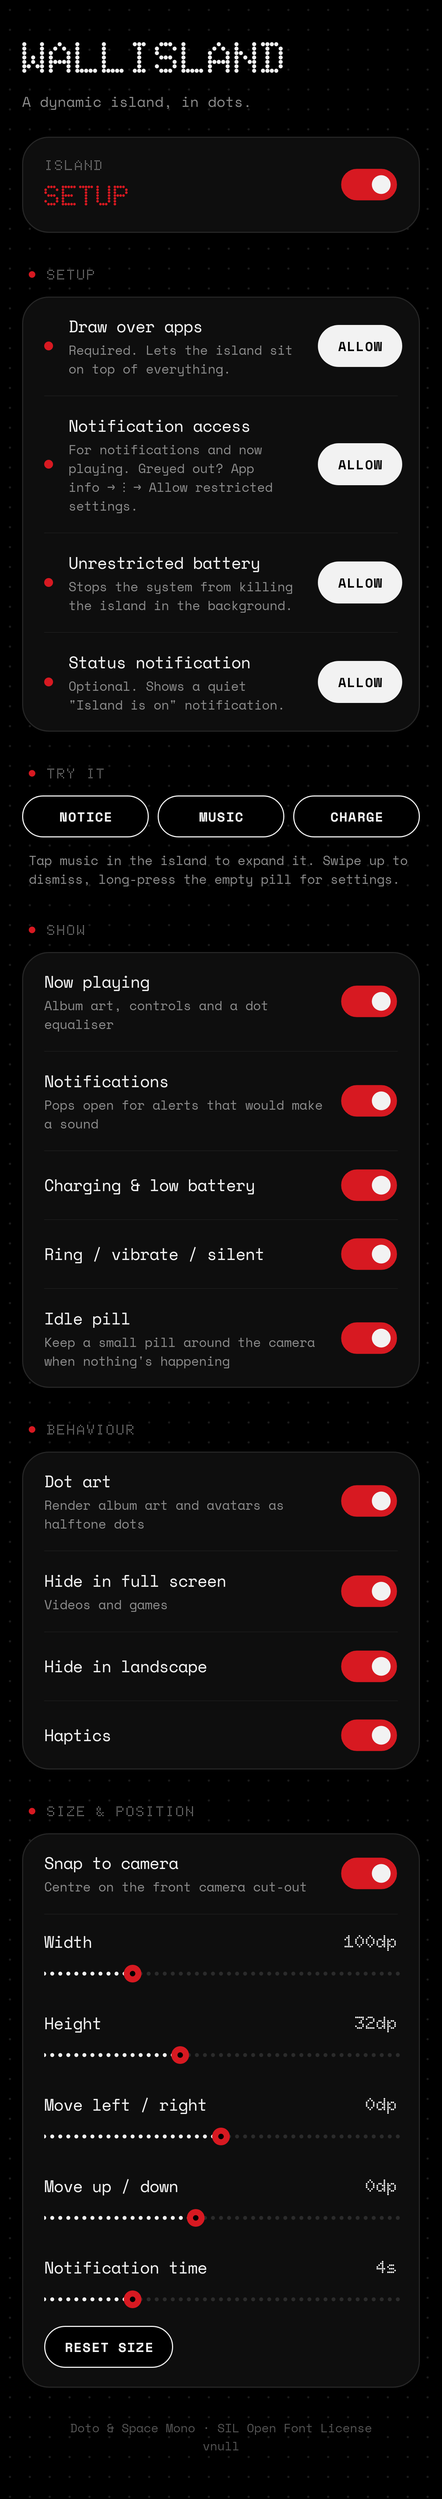
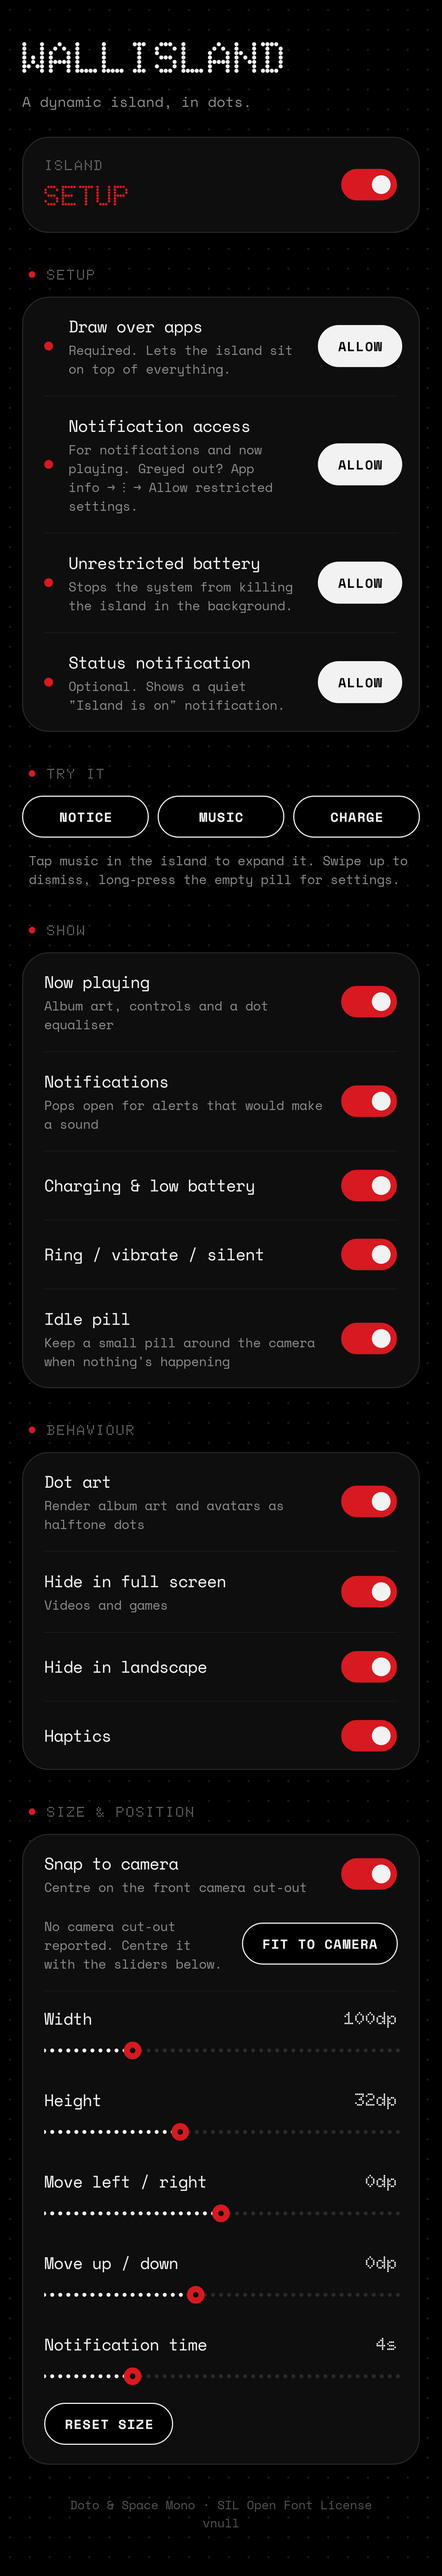
Full music controls, art toggle, and fix the off-centre island
Expanded now playing:
- Drag the dotted progress bar to scrub (live time readout, bigger red
  playhead, detent haptics); tap still jumps.
- Back 10 s and forward 10 s buttons join previous / play-pause / next.
- Tap the (now larger) artwork to flip between the real cover and the
  dot-matrix version; tap the title to open the player.
- The demo player responds to every control.

Centring:
- Cap the overlay window at the display width. Expanded states could ask
  for a window wider than the screen, which the window manager shifts
  sideways, knocking the pill off-centre.
- Read window metrics and the cut-out through a window context instead of
  the bare service context, and keep the pill's y position on-screen.
- Settings measures the camera from its own window insets, shows where it
  is, saves it as a fallback for the service, and adds "Fit to camera".

Claude-Session: https://claude.ai/code/session_013Ux6V4Mu22KpPNhHEWNT6s

diff --git a/app/src/main/java/com/wallisland/island/IslandView.kt b/app/src/main/java/com/wallisland/island/IslandView.kt
@@ -136,6 +136,15 @@ class IslandView(context: Context, private val prefs: Prefs, private val host: H
     private val hitNext = RectF()
     private val hitBar = RectF()
     private val hitOpen = RectF()
+    private val hitArt = RectF()
+    private val hitRewind = RectF()
+    private val hitForward = RectF()
+    private var barLeft = 0f
+    private var barRight = 0f
+    private var scrubbing = false
+    private var scrubFrac = 0f
+    private var seekHoldPos = 0L
+    private var seekHoldUntil = 0L
 
     private fun textPaint(face: android.graphics.Typeface, sizeSp: Float, color: Int) =
         TextPaint(Paint.ANTI_ALIAS_FLAG).apply {
@@ -167,6 +176,7 @@ class IslandView(context: Context, private val prefs: Prefs, private val host: H
     fun setMedia(info: MediaInfo?) {
         val old = media
         media = info
+        if (info != null && old != null && info.positionAt != old.positionAt) seekHoldUntil = 0L
         if (info == null) {
             mediaArt = null; mediaArtSmall = null; mediaPicture = null
             mediaExpanded = false
@@ -274,7 +284,7 @@ class IslandView(context: Context, private val prefs: Prefs, private val host: H
             Mode.IDLE -> idleW to idleH
             Mode.MEDIA, Mode.CHARGING, Mode.RINGER -> idleW + 2 * context.dp(SIDE_DP) to idleH
             Mode.NOTICE -> bigW to idleH + context.dp(66f)
-            Mode.MEDIA_EXPANDED -> bigW to idleH + context.dp(152f)
+            Mode.MEDIA_EXPANDED -> bigW to idleH + context.dp(172f)
         }
         val previewing = SystemClock.uptimeMillis() < previewUntil
         val visible = !hidden && prefs.enabled && (screenOn || previewing) &&
@@ -543,34 +553,40 @@ class IslandView(context: Context, private val prefs: Prefs, private val host: H
         drawHeader(canvas, m.appName, null, alpha, redDot = m.playing)
         drawVisualizer(canvas, pillRect.right - context.dp(22f), pillRect.top + topZone / 2f, context.dp(3.4f), 5, 4, m.playing, alpha)
 
+        // Artwork: tap to flip between the real cover and the dot-matrix version.
         val pad = context.dp(18f)
-        val s = context.dp(64f)
-        val top = pillRect.top + topZone + context.dp(6f)
+        val s = context.dp(ART_DP)
+        val top = pillRect.top + topZone + context.dp(4f)
         box.set(pillRect.left + pad, top, pillRect.left + pad + s, top + s)
         drawArt(canvas, box, small = false, alpha = alpha)
-        hitOpen.set(box.left, box.top, pillRect.right - pad, box.bottom)
+        hitArt.set(box)
 
         val tx = box.right + context.dp(14f)
         val avail = pillRect.right - pad - tx
         titlePaint.alpha = alpha
         bodyPaint.alpha = alpha
-        drawText(canvas, m.title, tx, top + context.dp(26f), avail, titlePaint)
-        drawText(canvas, m.artist, tx, top + context.dp(46f), avail, bodyPaint)
+        drawText(canvas, m.title, tx, top + s / 2f - context.dp(3f), avail, titlePaint)
+        drawText(canvas, m.artist, tx, top + s / 2f + context.dp(17f), avail, bodyPaint)
+        hitOpen.set(tx, box.top, pillRect.right - pad, box.bottom)
 
-        // Progress: a row of dots, played in white, the playhead in red.
+        // Progress: a row of dots, played in white, the playhead in red. Drag it to scrub.
         val barY = box.bottom + context.dp(22f)
         labelPaint.alpha = alpha
         val dur = m.durationMs
-        val pos = m.currentPosition()
+        val pos = shownPosition(m)
         val barL: Float
         val barR: Float
         if (dur > 0) {
             val lt = fmt(pos)
             val rt = "-" + fmt(dur - pos)
             val tw = labelPaint.measureText("-00:00")
+            labelPaint.color = if (scrubbing) Look.WHITE else Look.GREY
+            labelPaint.alpha = alpha
             drawText(canvas, lt, pillRect.left + pad, barY, tw, labelPaint, centerY = true)
             val rw = labelPaint.measureText(rt)
             drawText(canvas, rt, pillRect.right - pad - rw, barY, rw + 1f, labelPaint, centerY = true)
+            labelPaint.color = Look.GREY
+            labelPaint.alpha = alpha
             barL = pillRect.left + pad + tw + context.dp(8f)
             barR = pillRect.right - pad - tw - context.dp(8f)
         } else {
@@ -591,26 +607,51 @@ class IslandView(context: Context, private val prefs: Prefs, private val host: H
                 else -> Look.DOT_OFF
             }
             dotPaint.alpha = alpha
-            canvas.drawCircle(x, barY, context.dp(if (isHead) 3.2f else 1.5f), dotPaint)
+            val r = when {
+                isHead && scrubbing -> 4.6f
+                isHead -> 3.2f
+                else -> 1.5f
+            }
+            canvas.drawCircle(x, barY, context.dp(r), dotPaint)
         }
-        hitBar.set(barL, barY - context.dp(14f), barR, barY + context.dp(14f))
+        // Generous touch target so the bar is easy to grab.
+        hitBar.set(barL - context.dp(8f), barY - context.dp(16f), barR + context.dp(8f), barY + context.dp(16f))
+        barLeft = barL
+        barRight = barR
 
-        // Transport: dot-matrix glyphs.
+        // Transport, all dot-matrix: -10s, previous, play/pause, next, +10s.
         val cy = barY + context.dp(34f)
         val cx = pillRect.centerX()
-        val gap = context.dp(76f)
+        val gap = min(pillRect.width() / 5.4f, context.dp(70f))
         glyphPaint.color = Look.WHITE
         glyphPaint.alpha = alpha
-        val gs = context.dp(17f)
+        val gs = context.dp(16f)
+        val ss = context.dp(13f)
         val ps = context.dp(22f)
-        Glyph.PREV.draw(canvas, cx - gap - Glyph.PREV.width(gs) / 2f, cy, gs, glyphPaint)
-        val play = if (m.playing) Glyph.PAUSE else Glyph.PLAY
-        play.draw(canvas, cx - play.width(ps) / 2f, cy, ps, glyphPaint)
-        Glyph.NEXT.draw(canvas, cx + gap - Glyph.NEXT.width(gs) / 2f, cy, gs, glyphPaint)
-        val hs = context.dp(26f)
+        fun glyph(g: Glyph, x: Float, size: Float) = g.draw(canvas, x - g.width(size) / 2f, cy, size, glyphPaint)
+        glyph(Glyph.REWIND, cx - 2 * gap, ss)
+        glyph(Glyph.PREV, cx - gap, gs)
+        glyph(if (m.playing) Glyph.PAUSE else Glyph.PLAY, cx, ps)
+        glyph(Glyph.NEXT, cx + gap, gs)
+        glyph(Glyph.FORWARD, cx + 2 * gap, ss)
+        labelPaint.alpha = alpha
+        val tenW = labelPaint.measureText("10")
+        drawText(canvas, "10", cx - 2 * gap - tenW / 2f, cy + context.dp(17f), tenW + 1f, labelPaint, centerY = true)
+        drawText(canvas, "10", cx + 2 * gap - tenW / 2f, cy + context.dp(17f), tenW + 1f, labelPaint, centerY = true)
+
+        val hs = min(gap / 2f, context.dp(26f))
+        hitRewind.set(cx - 2 * gap - hs, cy - hs, cx - 2 * gap + hs, cy + hs)
         hitPrev.set(cx - gap - hs, cy - hs, cx - gap + hs, cy + hs)
         hitPlay.set(cx - hs, cy - hs, cx + hs, cy + hs)
         hitNext.set(cx + gap - hs, cy - hs, cx + gap + hs, cy + hs)
+        hitForward.set(cx + 2 * gap - hs, cy - hs, cx + 2 * gap + hs, cy + hs)
+    }
+
+    /** What the playhead should show: the finger while scrubbing, the requested spot right after a seek. */
+    private fun shownPosition(m: MediaInfo): Long {
+        if (scrubbing && m.durationMs > 0) return (scrubFrac * m.durationMs).toLong()
+        if (SystemClock.uptimeMillis() < seekHoldUntil) return seekHoldPos
+        return m.currentPosition()
     }
 
     private fun drawCharging(canvas: Canvas, c: Transient.ChargeT, alpha: Int) {
@@ -724,6 +765,7 @@ class IslandView(context: Context, private val prefs: Prefs, private val host: H
         }
         if (springAlpha.target == 0f) return false
         if (event.actionMasked == MotionEvent.ACTION_DOWN && !pillRect.contains(event.x, event.y)) return false
+        if (scrubTouch(event)) return true
         when (event.actionMasked) {
             MotionEvent.ACTION_DOWN -> setPressed(true)
             MotionEvent.ACTION_UP, MotionEvent.ACTION_CANCEL -> setPressed(false)
@@ -757,17 +799,90 @@ class IslandView(context: Context, private val prefs: Prefs, private val host: H
         }
     }
 
+    /** Drag along the progress dots to scrub; the seek is sent when the finger lifts. */
+    private fun scrubTouch(e: MotionEvent): Boolean {
+        val m = media
+        when (e.actionMasked) {
+            MotionEvent.ACTION_DOWN -> {
+                if (shownMode != Mode.MEDIA_EXPANDED || m == null || m.durationMs <= 0) return false
+                if (!hitBar.contains(e.x, e.y)) return false
+                scrubbing = true
+                parent?.requestDisallowInterceptTouchEvent(true)
+                updateScrub(e.x)
+                buzz()
+                return true
+            }
+            MotionEvent.ACTION_MOVE -> {
+                if (!scrubbing) return false
+                updateScrub(e.x)
+                return true
+            }
+            MotionEvent.ACTION_UP, MotionEvent.ACTION_CANCEL -> {
+                if (!scrubbing) return false
+                scrubbing = false
+                if (e.actionMasked == MotionEvent.ACTION_UP && m != null) seekTo((scrubFrac * m.durationMs).toLong())
+                invalidate()
+                return true
+            }
+        }
+        return scrubbing
+    }
+
+    private fun updateScrub(x: Float) {
+        val w = (barRight - barLeft).coerceAtLeast(1f)
+        val f = ((x - barLeft) / w).coerceIn(0f, 1f)
+        // A light tick every ~5% so scrubbing feels like a dial.
+        if ((f * 20).toInt() != (scrubFrac * 20).toInt()) buzz()
+        scrubFrac = f
+        invalidate()
+    }
+
+    private fun seekTo(ms: Long) {
+        val m = media ?: return
+        val target = if (m.durationMs > 0) ms.coerceIn(0, m.durationMs) else ms.coerceAtLeast(0)
+        seekHoldPos = target
+        seekHoldUntil = SystemClock.uptimeMillis() + 1500
+        val c = m.controller
+        if (c != null) {
+            c.transportControls.seekTo(target)
+        } else {
+            // Demo player (no real session): move the playhead ourselves.
+            media = m.copy(positionMs = target, positionAt = SystemClock.elapsedRealtime())
+            seekHoldUntil = 0L
+        }
+        invalidate()
+    }
+
     private fun tapExpandedMedia(x: Float, y: Float) {
         val m = media ?: return
-        val tc = m.controller?.transportControls ?: return
+        val tc = m.controller?.transportControls
         when {
-            hitPlay.contains(x, y) -> { if (m.playing) tc.pause() else tc.play(); buzz() }
-            hitPrev.contains(x, y) -> { tc.skipToPrevious(); buzz() }
-            hitNext.contains(x, y) -> { tc.skipToNext(); buzz() }
-            hitBar.contains(x, y) && m.durationMs > 0 -> {
-                val f = ((x - hitBar.left) / hitBar.width()).coerceIn(0f, 1f)
-                tc.seekTo((f * m.durationMs).toLong())
+            hitPlay.contains(x, y) -> {
+                if (tc != null) {
+                    if (m.playing) tc.pause() else tc.play()
+                } else {
+                    media = m.copy(playing = !m.playing, positionMs = m.currentPosition(), positionAt = SystemClock.elapsedRealtime())
+                    resolve()
+                }
                 buzz()
+            }
+            hitRewind.contains(x, y) -> { seekTo(shownPosition(m) - SKIP_MS); buzz() }
+            hitForward.contains(x, y) -> { seekTo(shownPosition(m) + SKIP_MS); buzz() }
+            hitPrev.contains(x, y) -> {
+                // Like most players: restart the song unless it only just started.
+                if (tc != null) tc.skipToPrevious() else seekTo(0)
+                buzz()
+            }
+            hitNext.contains(x, y) -> { if (tc != null) tc.skipToNext() else seekTo(0); buzz() }
+            hitBar.contains(x, y) && m.durationMs > 0 -> {
+                val f = ((x - barLeft) / (barRight - barLeft).coerceAtLeast(1f)).coerceIn(0f, 1f)
+                seekTo((f * m.durationMs).toLong())
+                buzz()
+            }
+            hitArt.contains(x, y) -> {
+                prefs.dotArt = !prefs.dotArt
+                buzz()
+                invalidate()
             }
             hitOpen.contains(x, y) -> {
                 m.controller?.sessionActivity?.let { send(it) }
@@ -819,8 +934,10 @@ class IslandView(context: Context, private val prefs: Prefs, private val host: H
     }
 
     companion object {
+        private const val SKIP_MS = 10_000L
         private const val ELLIPSIS = "\u2026"
         private const val SIDE_DP = 62f
+        private const val ART_DP = 76f
         private const val PAUSE_LINGER_MS = 60_000L
         private const val FADE_OUT_MS = 90f
         private const val FADE_IN_MS = 200f

diff --git a/app/src/main/java/com/wallisland/island/Look.kt b/app/src/main/java/com/wallisland/island/Look.kt
@@ -96,6 +96,24 @@ enum class Glyph(vararg rows: String) {
         "##...##",
         "##....#",
     ),
+    FORWARD(
+        "#...#...",
+        "##..##..",
+        "###.###.",
+        "########",
+        "###.###.",
+        "##..##..",
+        "#...#...",
+    ),
+    REWIND(
+        "...#...#",
+        "..##..##",
+        ".###.###",
+        "########",
+        ".###.###",
+        "..##..##",
+        "...#...#",
+    ),
     BOLT(
         "..###",
         ".###.",

diff --git a/README.md b/README.md
@@ -8,15 +8,19 @@ design language: black, white, one red, and dots everywhere.
 | ![Media, compact](docs/screens/media-compact.png) | ![Charging](docs/screens/charging.png) |
 | ![Notification](docs/screens/notification.png) | ![Silent](docs/screens/silent.png) |
 
-![Now playing, expanded](docs/screens/media-expanded.png)
+| ![Now playing, dot art](docs/screens/media-expanded.png) | ![Now playing, cover art](docs/screens/media-expanded-cover.png) |
+|---|---|
 
 <img src="docs/screens/settings.png" width="320" alt="Settings screen">
 
 ## What it does
 
 - **Now playing.** Halftone dot album art and a dot equaliser on either side of the camera. Tap to
-  expand into full controls: a dotted progress bar you can tap to seek, and dot-matrix
-  prev / play / next buttons.
+  expand into the full player:
+  - Drag along the dotted progress bar to scrub, or tap to jump.
+  - Back 10 s, previous, play / pause, next and forward 10 s, all as dot-matrix buttons.
+  - Tap the album art to switch between the real cover and the dot-matrix version.
+  - Tap the song title to open the music app.
 - **Notifications.** Only alerts that would make a sound open the island. Chats show the latest
   message. Tap to open the notification, or swipe up to dismiss it.
 - **Charging and low battery.** A five-dot gauge and the percentage in Doto. It turns red at 20%.
@@ -35,8 +39,9 @@ design language: black, white, one red, and dots everywhere.
 - A one-tap request for unrestricted battery use in settings.
 - A Quick Settings tile to switch it on and off.
 - It hides for full-screen video and games, and in landscape. Both can be turned off.
-- It centres on the front-camera cut-out automatically, and you can fine-tune the size and position
-  with live preview.
+- It centres on the front-camera cut-out automatically. Settings shows exactly where it found the
+  camera, and **Fit to camera** sizes the pill around it. You can fine-tune everything with live
+  preview.
 
 ## Install
 
